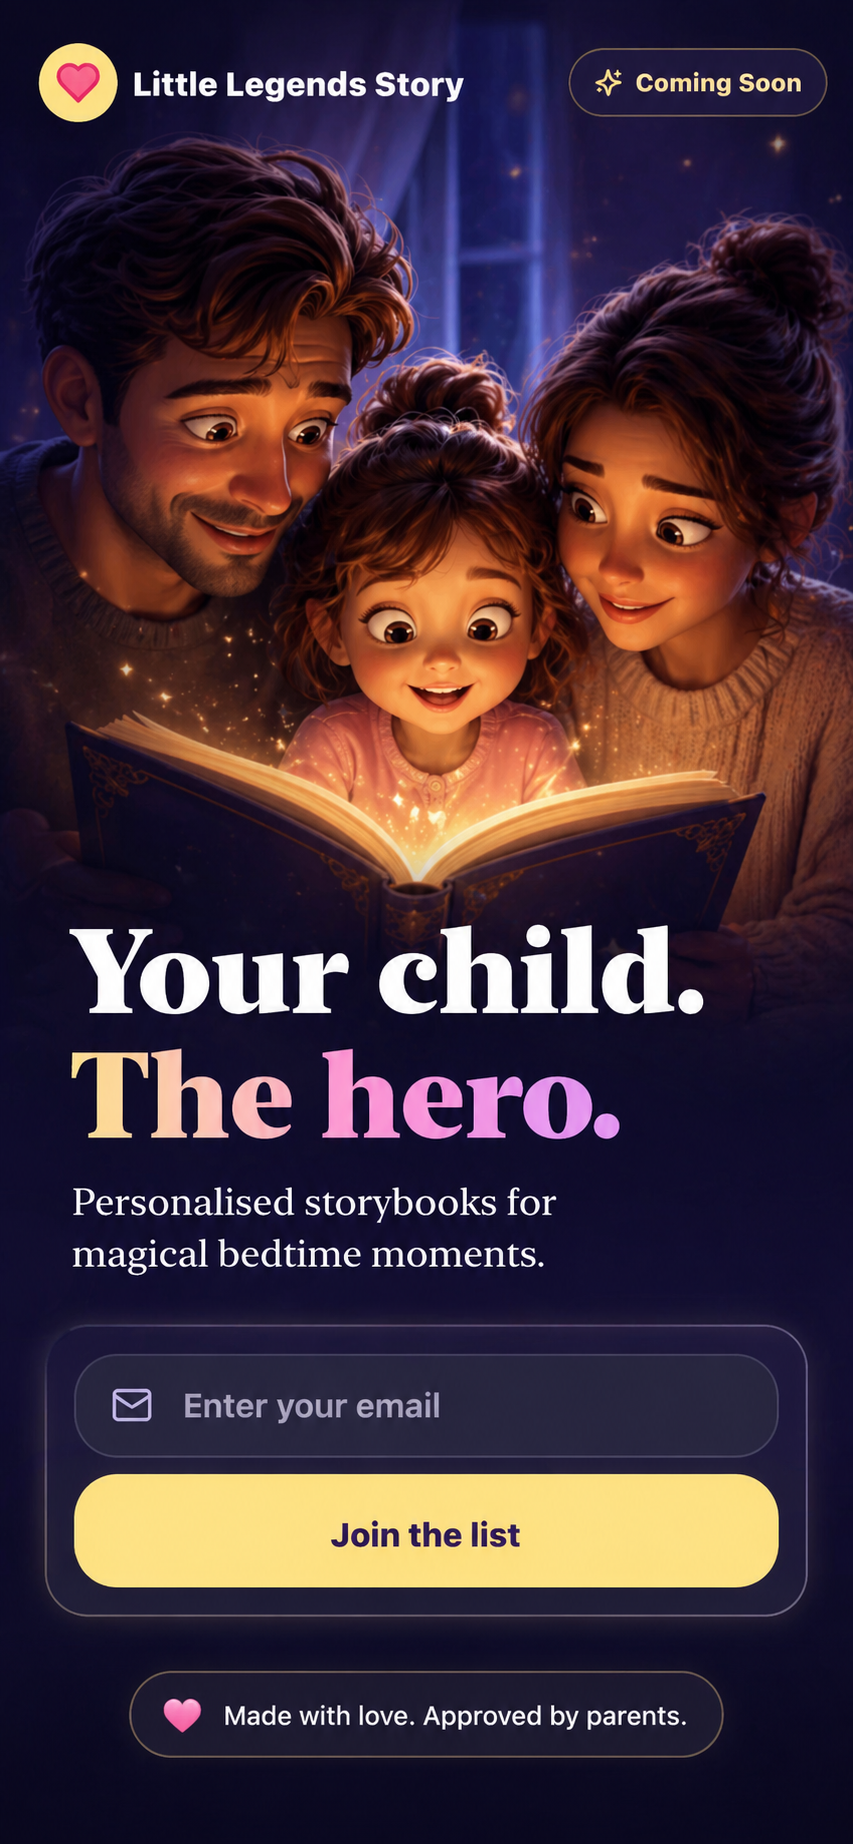
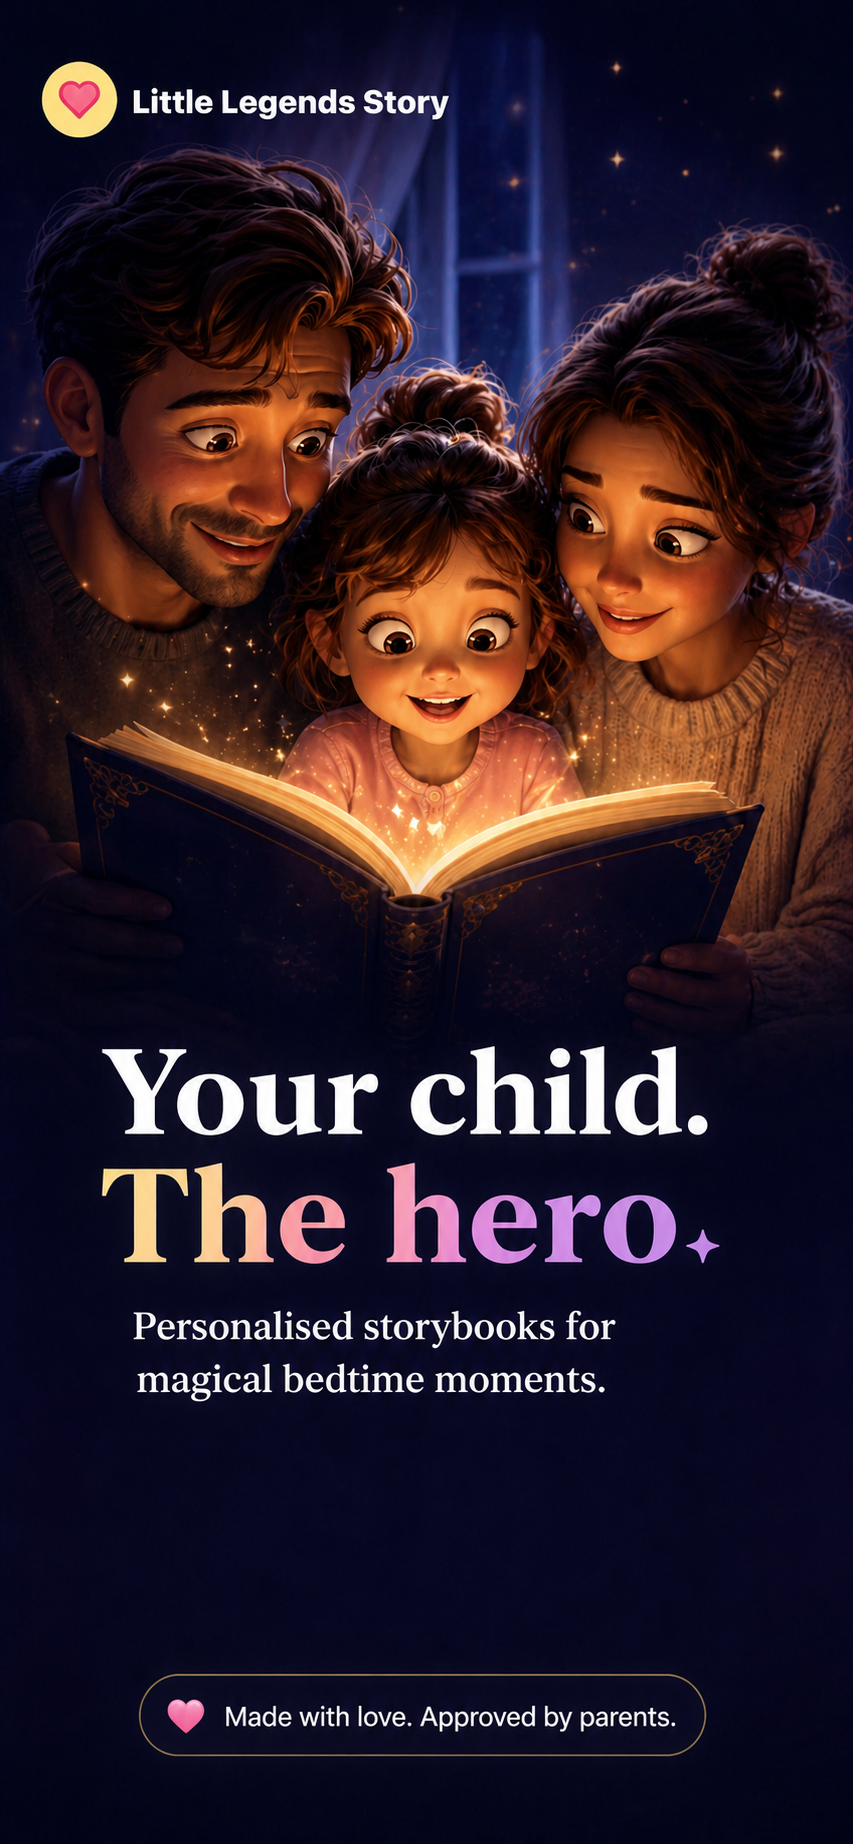
style: clean homepage hero and enhance CTA glow

diff --git a/app/globals.css b/app/globals.css
@@ -152,6 +152,41 @@ nextjs-portal {
   transform: translateY(-2px);
 }
 
+.hero-cta {
+  border: 2px solid rgba(255, 248, 220, 0.98);
+  box-shadow:
+    0 0 0 1px rgba(255, 255, 255, 0.28),
+    0 0 18px rgba(255, 226, 140, 0.72),
+    0 0 44px rgba(251, 191, 36, 0.48),
+    0 18px 44px rgba(251, 191, 36, 0.32);
+  animation: hero-cta-glow 2.8s ease-in-out infinite;
+}
+
+@keyframes hero-cta-glow {
+  0%,
+  100% {
+    box-shadow:
+      0 0 0 1px rgba(255, 255, 255, 0.28),
+      0 0 16px rgba(255, 226, 140, 0.62),
+      0 0 36px rgba(251, 191, 36, 0.4),
+      0 18px 44px rgba(251, 191, 36, 0.28);
+  }
+
+  50% {
+    box-shadow:
+      0 0 0 1px rgba(255, 255, 255, 0.42),
+      0 0 24px rgba(255, 232, 168, 0.92),
+      0 0 58px rgba(251, 191, 36, 0.62),
+      0 20px 48px rgba(251, 191, 36, 0.38);
+  }
+}
+
+@media (prefers-reduced-motion: reduce) {
+  .hero-cta {
+    animation: none;
+  }
+}
+
 @media (max-width: 640px) {
   .storybook-panel {
     border-width: 3px;

diff --git a/app/page.tsx b/app/page.tsx
@@ -17,13 +17,11 @@ export default function HomePage() {
           draggable={false}
         />
 
-        <div aria-hidden className="absolute right-[5.8%] top-[2.55%] h-[4.95%] w-[31%] rounded-full bg-[#17182f]" />
-
         <div className="absolute left-[7.5%] top-[75.1%] z-10 w-[85%]">
           <div aria-hidden className="absolute inset-x-[8%] -inset-y-[18%] rounded-full bg-amber-200/20 blur-2xl" />
           <Link
             href="/create"
-            className="relative flex min-h-[4.7rem] items-center justify-center gap-3 rounded-full border border-amber-50/90 bg-[linear-gradient(135deg,#fff5cb_0%,#ffe08a_48%,#ffd56b_100%)] px-5 text-[clamp(1.15rem,5vw,1.5rem)] font-black tracking-normal text-[#35165f] shadow-[0_0_0_1px_rgba(255,255,255,0.25),0_16px_42px_rgba(251,191,36,0.36)] transition hover:-translate-y-0.5 hover:brightness-105 focus-visible:outline-none focus-visible:ring-4 focus-visible:ring-amber-200/45"
+            className="hero-cta relative flex min-h-[4.7rem] items-center justify-center gap-3 rounded-full bg-[linear-gradient(135deg,#fff5cb_0%,#ffe08a_48%,#ffd56b_100%)] px-5 text-[clamp(1.15rem,5vw,1.5rem)] font-black tracking-normal text-[#35165f] transition hover:-translate-y-0.5 hover:brightness-105 focus-visible:outline-none focus-visible:ring-4 focus-visible:ring-amber-200/45"
           >
             <Sparkles className="h-[1.08em] w-[1.08em]" />
             Begin the Magic
@@ -44,7 +42,7 @@ export default function HomePage() {
             <div aria-hidden className="absolute inset-x-[10%] -inset-y-[34%] rounded-full bg-amber-200/18 blur-2xl" />
             <Link
               href="/create"
-              className="relative flex h-[9.1%] min-h-[4.7rem] items-center justify-center gap-[1.8%] rounded-full border border-amber-50/90 bg-[linear-gradient(135deg,#fff5cb_0%,#ffe08a_48%,#ffd56b_100%)] px-[4%] text-[clamp(1rem,1.7vw,1.52rem)] font-black tracking-normal text-[#35165f] shadow-[0_0_0_1px_rgba(255,255,255,0.24),0_18px_44px_rgba(251,191,36,0.36)] transition hover:-translate-y-0.5 hover:brightness-105 focus-visible:outline-none focus-visible:ring-4 focus-visible:ring-amber-200/45"
+              className="hero-cta relative flex h-[9.1%] min-h-[4.7rem] items-center justify-center gap-[1.8%] rounded-full bg-[linear-gradient(135deg,#fff5cb_0%,#ffe08a_48%,#ffd56b_100%)] px-[4%] text-[clamp(1rem,1.7vw,1.52rem)] font-black tracking-normal text-[#35165f] transition hover:-translate-y-0.5 hover:brightness-105 focus-visible:outline-none focus-visible:ring-4 focus-visible:ring-amber-200/45"
             >
               <Sparkles className="h-[1.08em] w-[1.08em]" />
               Begin the Magic